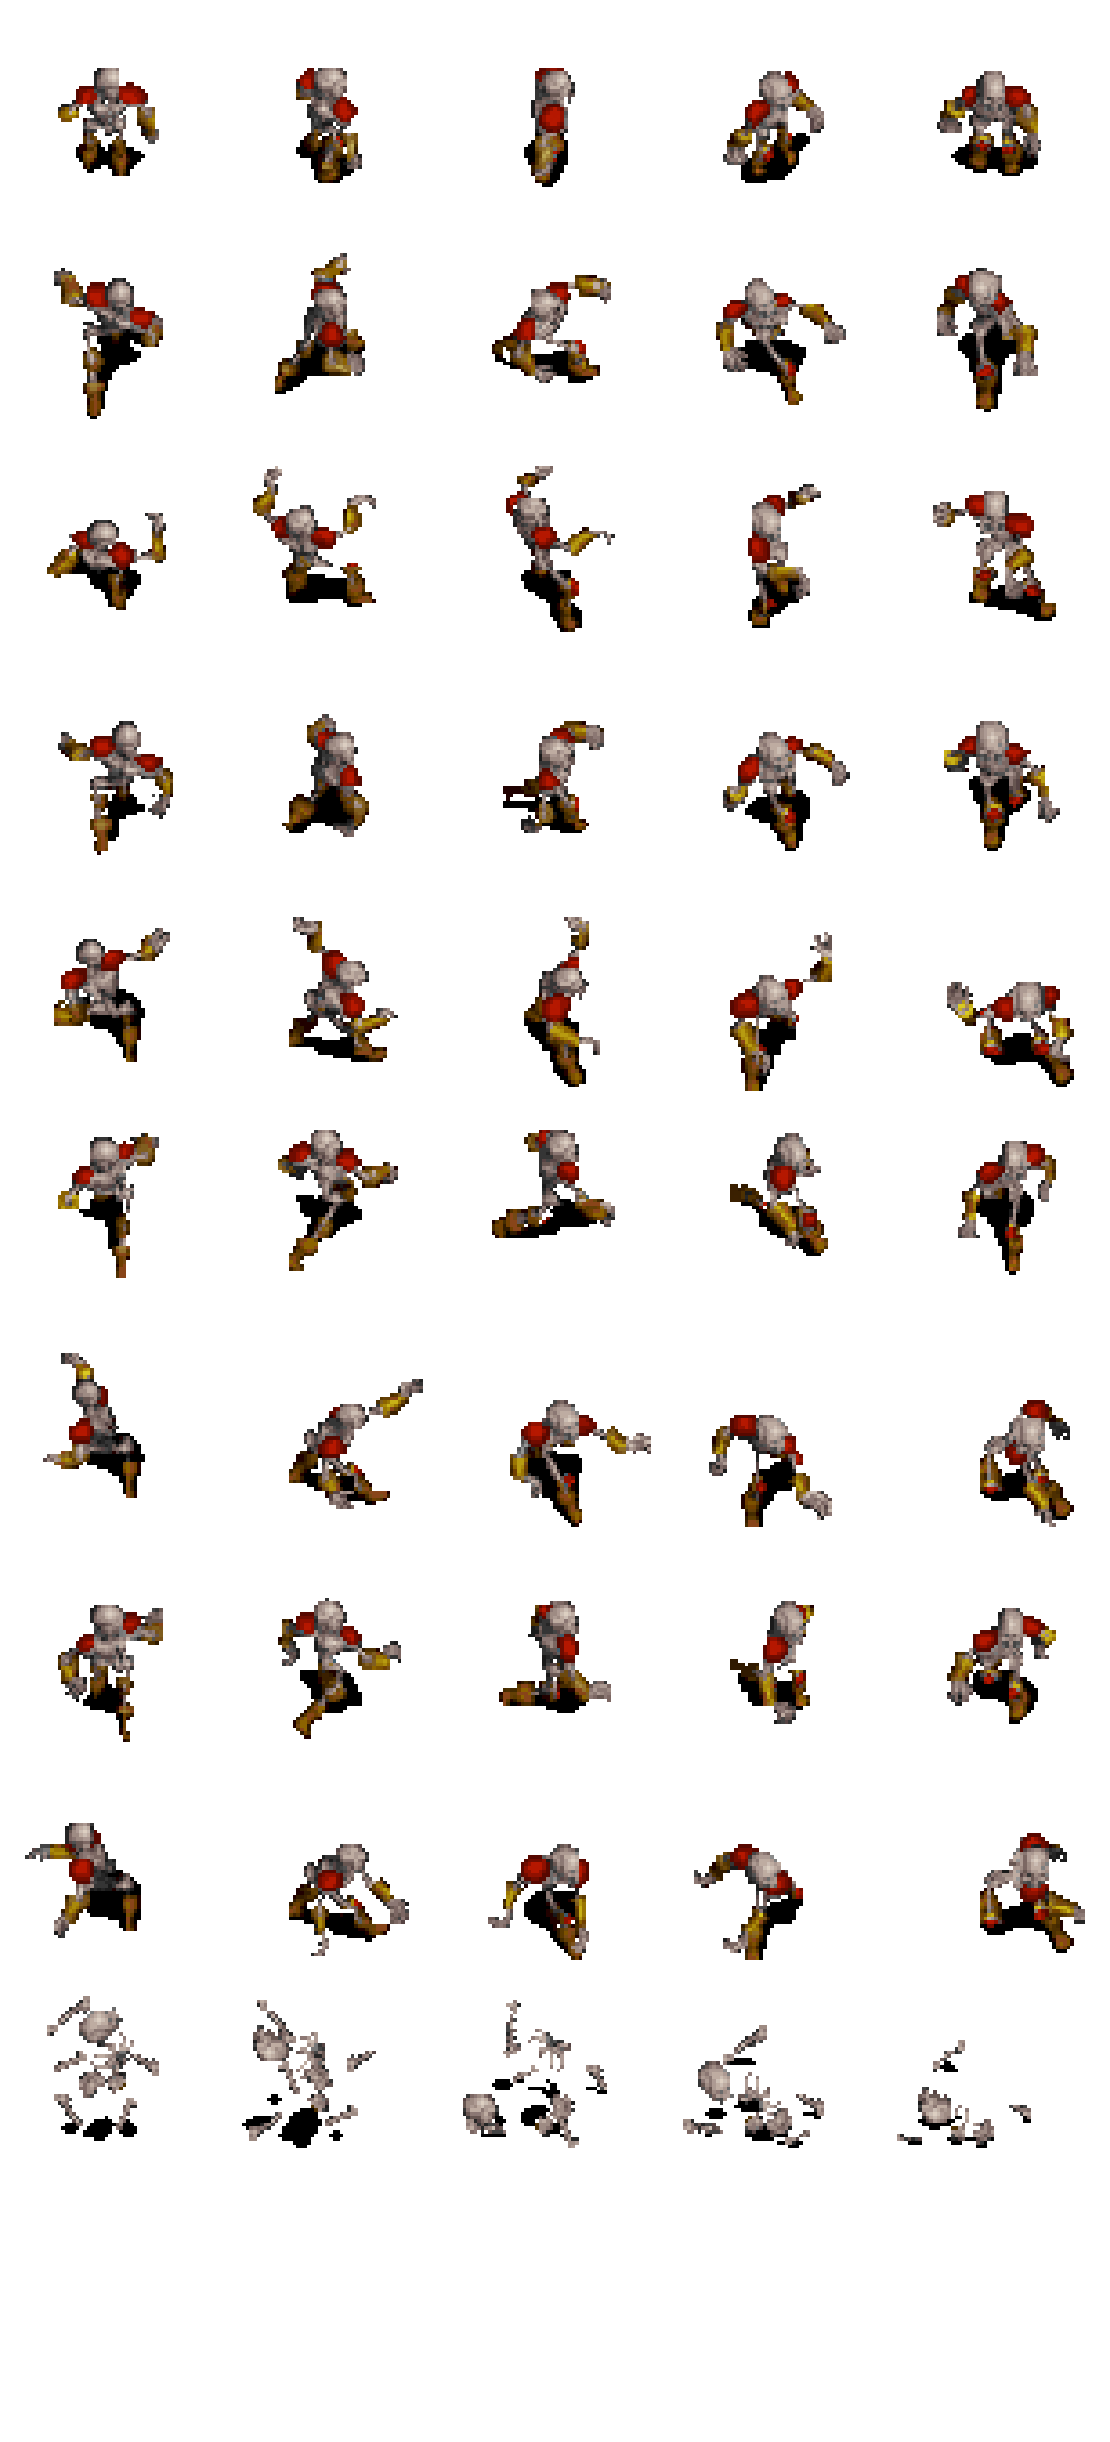
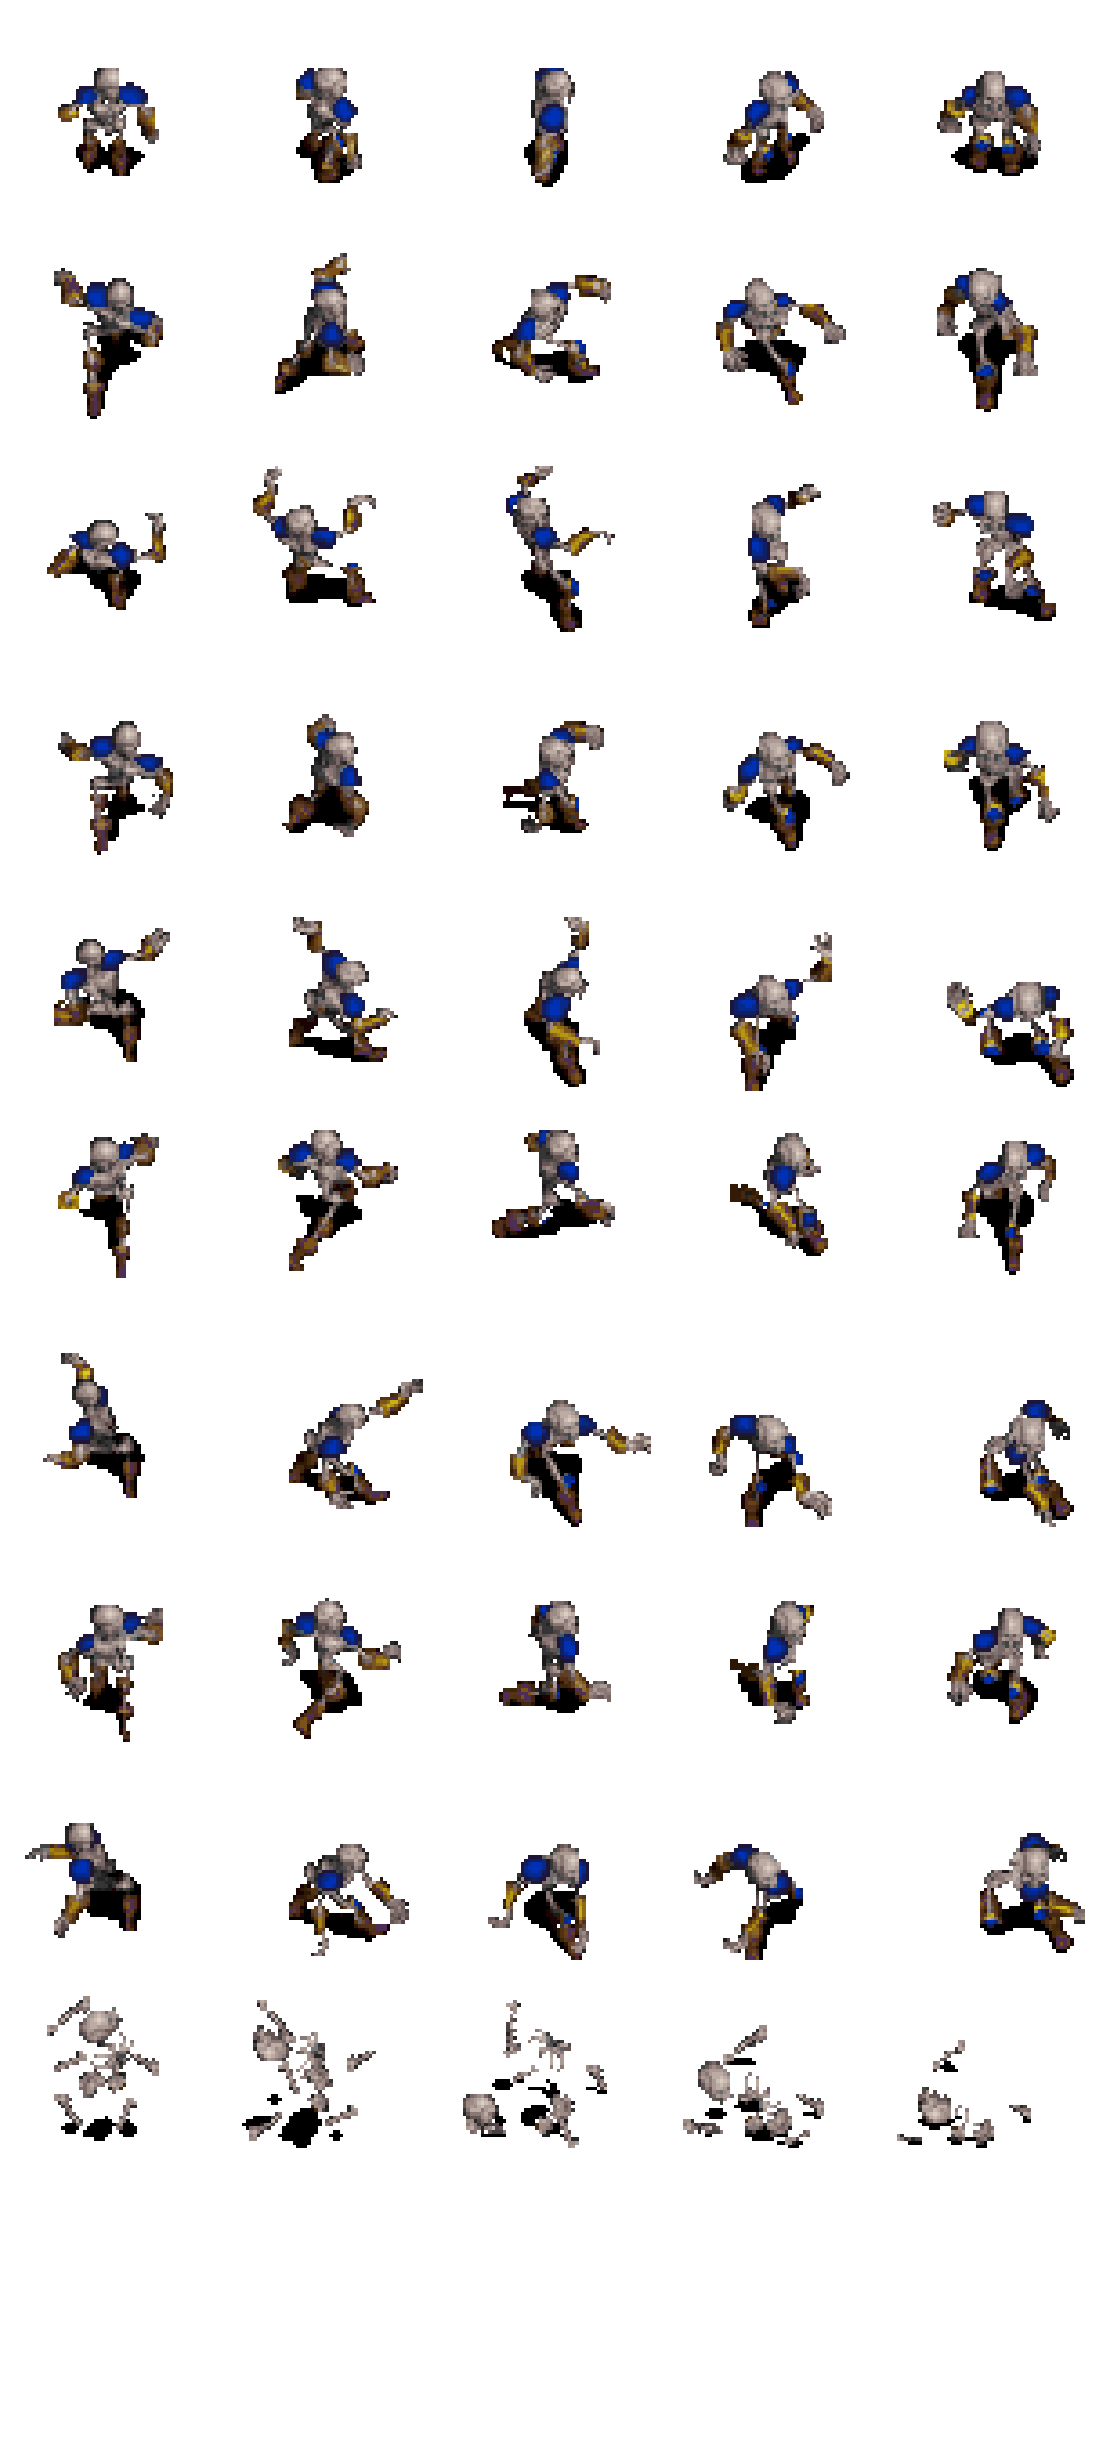
feat: different colours on actors

diff --git a/src/components/world/QuestPanel/QuestDetails/scene/SceneActor.tsx b/src/components/world/QuestPanel/QuestDetails/scene/SceneActor.tsx
@@ -1,5 +1,6 @@
 import React, { useMemo,  useEffect, useRef, useCallback, PropsWithChildren, useState, memo } from 'react';
 import { Container } from '@inlet/react-pixi';
+import { ColorReplaceFilter, MultiColorReplaceFilter } from 'pixi-filters';
 import { SceneActionType, SceneAction } from 'stores/scene';
 import { useDispatch, useSelector } from 'react-redux';
 import { completeSceneAction } from 'actions/quests';
@@ -256,6 +257,10 @@ console.log(PIXI.Loader.shared)
                     scale={[(flipped.current ? -1 : 1), 1]}
                     anchor={[.5, .5]}
                     pivot={[0, 0]}
+                    // filters={[new ColorReplaceFilter(0x002487, 0x875c00, 0.35)]}
+                    filters={[
+                        createColorReplaceFilter(BLUES, PURPLE)
+                    ]}
                 />
             )}
             {children}
@@ -264,3 +269,68 @@ console.log(PIXI.Loader.shared)
 };
 
 export default memo(SceneActor);
+
+const createColorReplaceFilter = (from: number[], to: number[]) => {
+    const replacements = from.map((val, index) => {
+        return [
+            from[index], to[index]
+        ]
+    });
+    return new MultiColorReplaceFilter(replacements, 0.15);
+}
+
+const BLUES = [
+    0x000e5f,
+    0x00227f,
+    0x0038a5,
+    0x0055cc,
+];
+
+const REDS = [
+    0x570800,
+    0x700c00,
+    0x901000,
+    0xb51700
+];
+
+const TEALS = [
+    0x00330d,
+    0x00653a,
+    0x08936f,
+    0x30bea5
+];
+
+const PURPLE = [
+    0x3b0d3a,
+    0x641d5e,
+    0x884696,
+    0xaa61bd
+];
+
+const ORANGE = [
+    0x802d0c,
+    0xaa4a12,
+    0xd16d11,
+    0xf59717
+];
+
+const BLACK = [
+    0x0d0d1a,
+    0x1a1b2b,
+    0x25263a,
+    0x35354c
+];
+
+const WHITE = [
+    0x30375e,
+    0x676993,
+    0xa9aac2,
+    0xe6e6e6
+];
+
+const YELLOW = [
+    0xc28600,
+    0xd6ae10,
+    0xe9d333,
+    0xfdf959
+];

diff --git a/src/components/town/TownView.tsx b/src/components/town/TownView.tsx
@@ -21,6 +21,7 @@ import { withAppContext, AppContextProps } from 'hoc/withAppContext';
 import Generic from './structures/Generic';
 import Legenda from './Legenda';
 import "./styles/townView.scss"
+import { GodrayFilter } from 'pixi-filters';
 
 const HEIGHT = 1079;
 const WORLD_WIDTH = 1024;
@@ -169,6 +170,7 @@ const TownView = (props: Props & AppContextProps) => {
                     <Sprite
                         name="background"
                         image={`${process.env.PUBLIC_URL}/img/town/town-alpha/background.png`}
+                        filters={[new GodrayFilter()]}
                     >
                         {renderStructures()}
                     </Sprite>

diff --git a/docs/thoughts.md b/docs/thoughts.md
@@ -407,7 +407,7 @@ research fantasy concept art
 
 
 #### 30/03/2020 Refactor react [+tech]
-[ ] Refactor react, remove containers. Implement useSelector hook
+[x] Refactor react, remove containers. Implement useSelector hook
 [ ] Check for needless rerendering
 [ ] Move Windows into own component and use WindowManager
 
